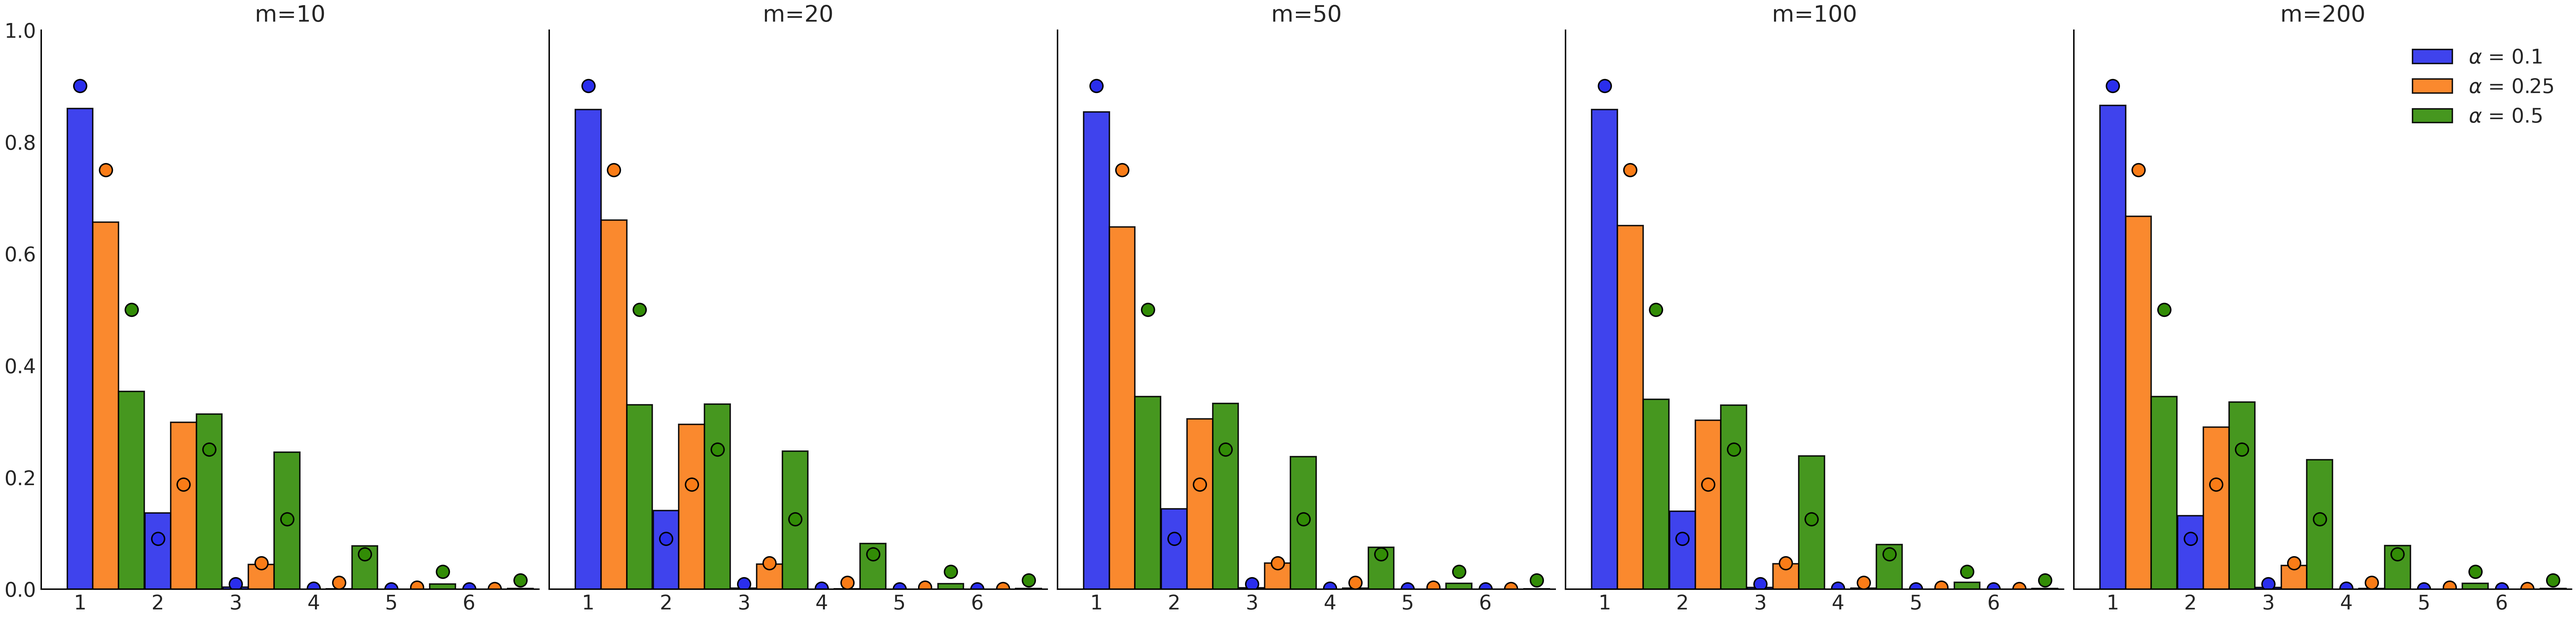
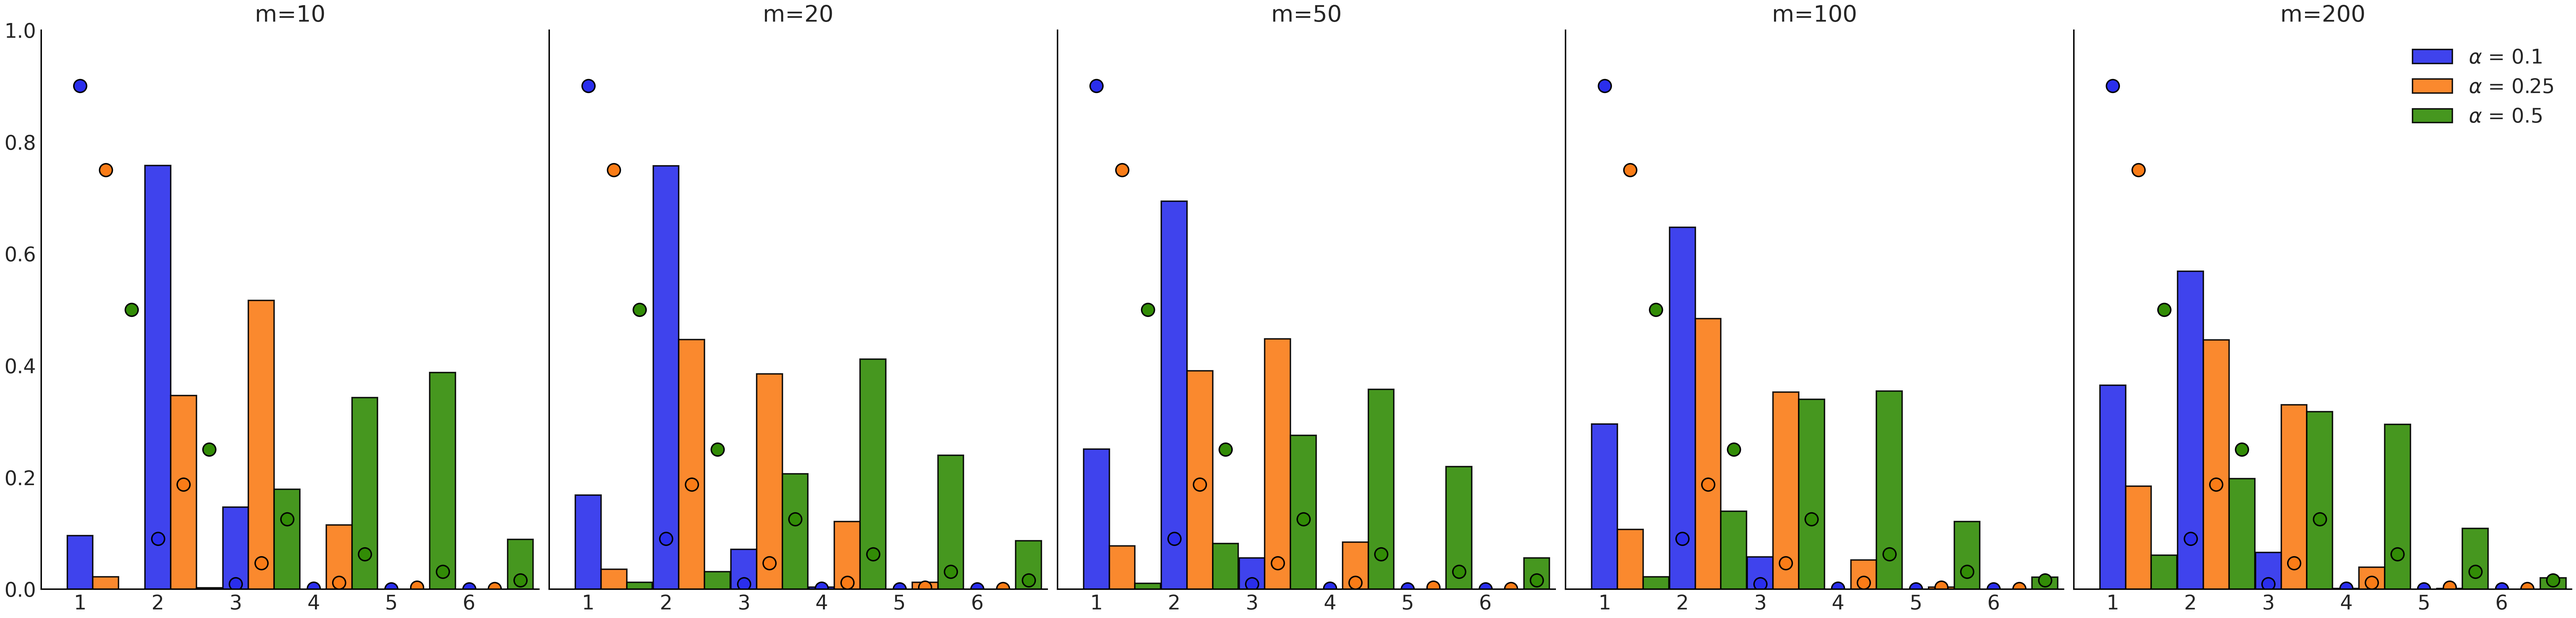
update friedman i3 more samples

Changed region(s): [[0.0, 0.1556, 0.4056, 0.9644], [0.4056, 0.1867, 0.8112, 0.9644], [0.8112, 0.1556, 0.9984, 0.9644]]

diff --git a/experiments/friedman_i3sample.py b/experiments/friedman_i3sample.py
@@ -8,8 +8,8 @@ import arviz as az
 import matplotlib.pyplot as plt
 import numpy as np
 import pymc as pm
-import pymc_experimental as pmx
-from pymc_experimental.bart.pgbart import compute_prior_probability
+import pymc_bart as pmb
+from pymc_bart.pgbart import compute_prior_probability
 import pandas as pd
 
 # Configuration
@@ -44,9 +44,9 @@ idatas_at = {
 for m in trees:
     for alpha in alphas:
         with pm.Model() as model:
-            μ = pmx.BART("μ", X, Y, m=m, alpha=alpha)
+            μ = pmb.BART("μ", X, Y, m=m, alpha=alpha)
             σ = pm.HalfNormal("σ", 1)
-            y = pm.Normal("y", μ, σ, observed=f_x)
+            y = pm.Normal("y", μ, σ, observed=Y)
             idata = pm.sample(chains=4, random_seed=RANDOM_SEED)
             idatas_at[str(m)][str(alpha)] = idata
 
@@ -111,7 +111,7 @@ for m in trees:
             for sample in chain:
                 for tree in sample:
                     index = max(tree.item().tree_structure.keys())
-                    tmp_list.append(pmx.bart.tree.BaseNode(index).depth)
+                    tmp_list.append(pmb.tree.BaseNode(index).depth)
         trees_length[f"{m}"][f"{alpha}"] = pd.Series(tmp_list)
 
 # Trees' depth probabilities based on alpha values
